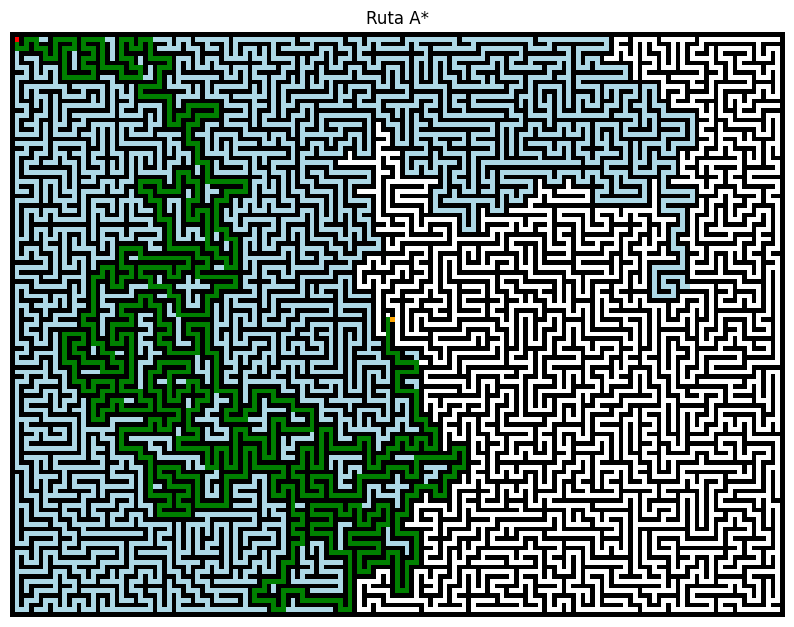
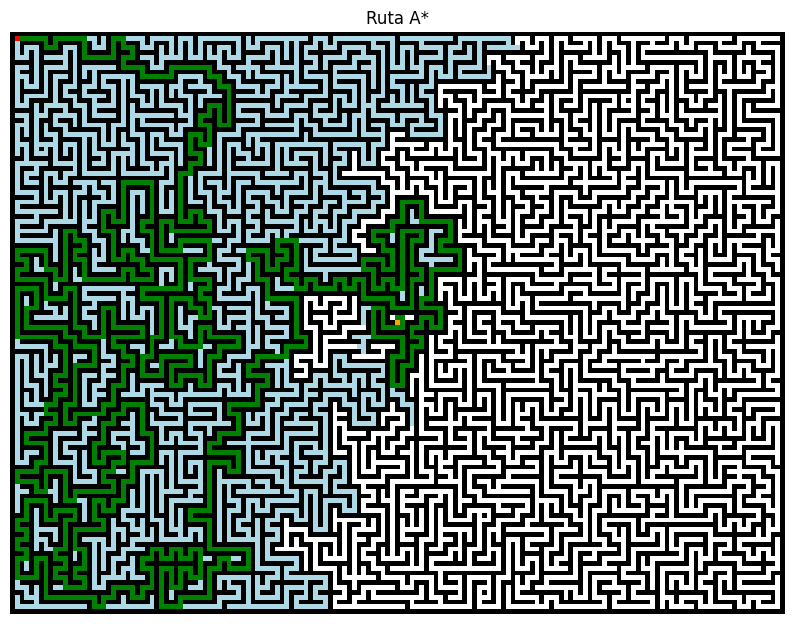
fix: maze with multiple solutions

diff --git a/MazeGenerator.py b/MazeGenerator.py
@@ -353,6 +353,41 @@ class MazeGenerator:
         plt.savefig(filename, bbox_inches='tight')
         plt.close()
 
+    def add_cycles(self, num_cycles=10):
+        """
+        Introduce ciclos adicionales en el laberinto, eliminando paredes internas.
+        
+        Args:
+            num_cycles (int): Número de paredes adicionales a eliminar para crear rutas alternativas.
+        """
+        h, w = self.grid.shape
+        attempts = 0
+        added = 0
+
+        while added < num_cycles and attempts < num_cycles * 10:
+            attempts += 1
+
+            # Elegir coordenadas de una posible pared interna (solo coordenadas pares)
+            r = random.randrange(1, h - 1, 2)
+            c = random.randrange(1, w - 1, 2)
+
+            # Revisar posibles direcciones: arriba, abajo, izquierda, derecha
+            directions = [(-1, 0), (1, 0), (0, -1), (0, 1)]
+            random.shuffle(directions)
+
+            for dr, dc in directions:
+                nr, nc = r + dr, c + dc
+                rr, rc = r + 2 * dr, c + 2 * dc
+
+                if (0 < rr < h and 0 < rc < w and
+                    self.grid[r + dr, c + dc] == 1 and  # Es una pared
+                    self.grid[r, c] == 0 and self.grid[rr, rc] == 0):  # Está entre dos celdas transitables
+
+                    self.grid[r + dr, c + dc] = 0  # Eliminar la pared (crear ciclo)
+                    self.states.append(np.copy(self.grid))
+                    added += 1
+                    break  # Pasamos al siguiente ciclo
+
 
     def compare_algorithms(self, height, width, save_animation=False):
         """
@@ -374,6 +409,9 @@ class MazeGenerator:
         kruskal_entrance = self.entrance
         kruskal_exit = self.exit
         
+        # Aumentar complejidad de los algoritmos
+        self.add_cycles(num_cycles=15)
+
         # Guardar el laberinto de Kruskal
         kruskal_final = np.copy(kruskal_maze)
         
@@ -388,6 +426,9 @@ class MazeGenerator:
         rb_time = time.time() - start_time
         rb_entrance = self.entrance
         rb_exit = self.exit
+
+        # Aumentar complejidad de los algoritmos
+        self.add_cycles(num_cycles=15)
         
         # Guardar el laberinto de Recursive Backtracking
         rb_final = np.copy(rb_maze)
